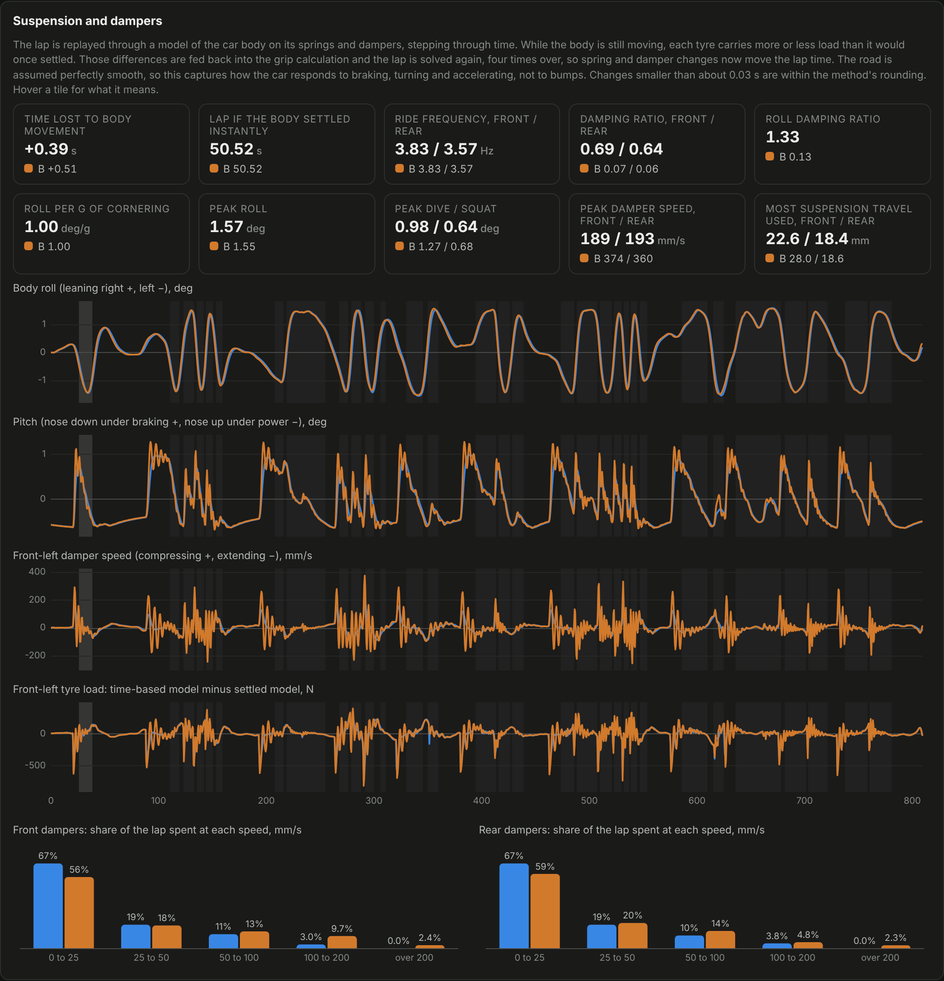
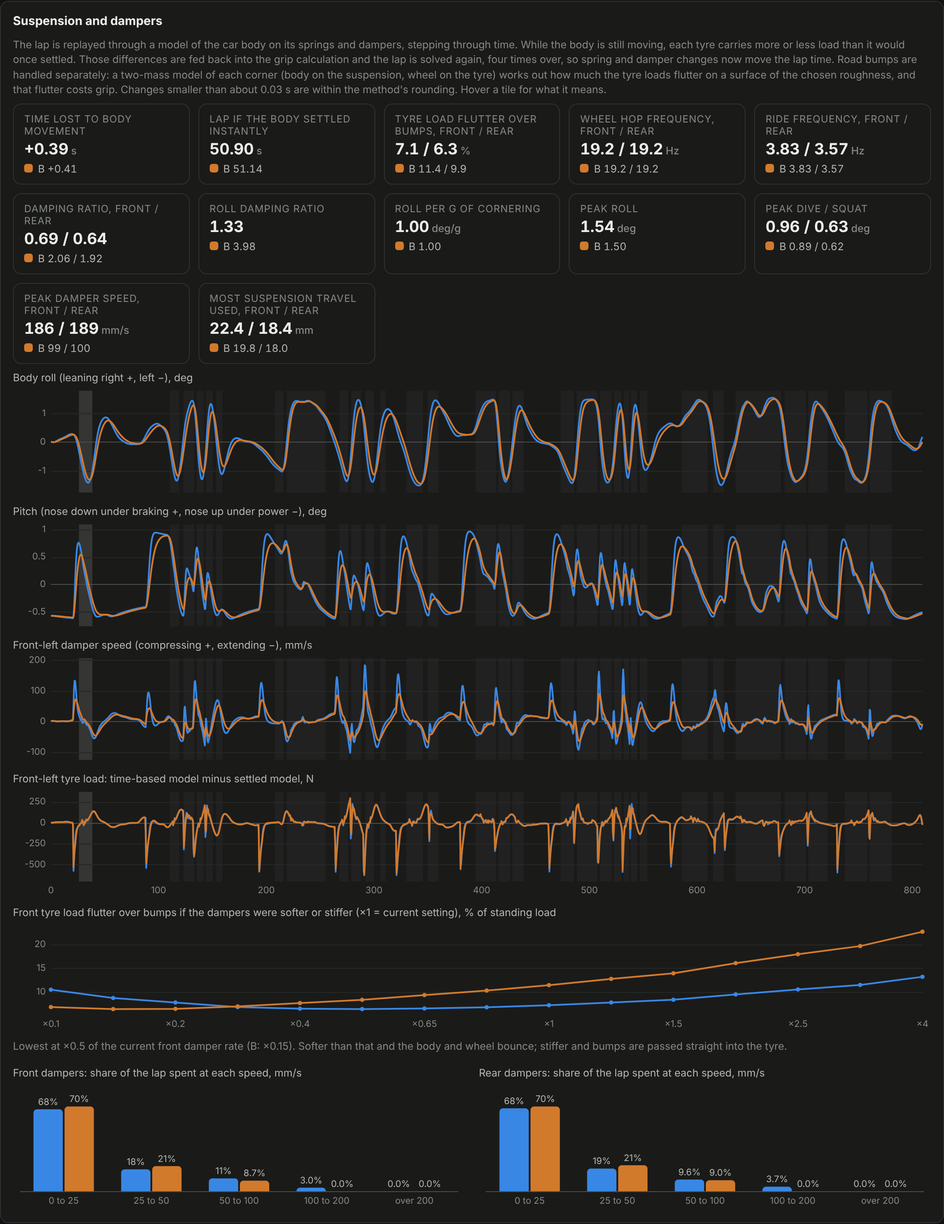
Add road bumps and tyre vertical stiffness
A quarter-car model per corner with the ISO 8608 road roughness scale gives
the tyre load flutter at each speed; an assumed share of that flutter is lost
as grip. Dampers now have a sweet spot in lap time. New inputs: tyre vertical
stiffness, grip lost to load flutter, track roughness. The suspension panel
shows load flutter, wheel hop frequency and the damper trade-off curve.

Claude-Session: https://claude.ai/code/session_014WARP8tuEjPQfDCv9Myx8Z

diff --git a/index.html b/index.html
@@ -77,9 +77,11 @@
 
     <div class="card" id="rideCard">
       <div class="card-head"><h2>Suspension and dampers</h2></div>
-      <p class="sub">The lap is replayed through a model of the car body on its springs and dampers, stepping through time. While the body is still moving, each tyre carries more or less load than it would once settled. Those differences are fed back into the grip calculation and the lap is solved again, four times over, so spring and damper changes now move the lap time. The road is assumed perfectly smooth, so this captures how the car responds to braking, turning and accelerating, not to bumps. Changes smaller than about 0.03 s are within the method's rounding. Hover a tile for what it means.</p>
+      <p class="sub">The lap is replayed through a model of the car body on its springs and dampers, stepping through time. While the body is still moving, each tyre carries more or less load than it would once settled. Those differences are fed back into the grip calculation and the lap is solved again, four times over, so spring and damper changes now move the lap time. Road bumps are handled separately: a two-mass model of each corner (body on the suspension, wheel on the tyre) works out how much the tyre loads flutter on a surface of the chosen roughness, and that flutter costs grip. Changes smaller than about 0.03 s are within the method's rounding. Hover a tile for what it means.</p>
       <div id="rideKpis" class="kpis"></div>
       <div id="rideCharts"></div>
+      <div class="chart"><div class="ct"><span>Front tyre load flutter over bumps if the dampers were softer or stiffer (×1 = current setting), % of standing load</span></div><canvas id="bumpChart"></canvas></div>
+      <p class="hint" id="bumpNote"></p>
       <div class="hist">
         <div><div class="ct"><span>Front dampers: share of the lap spent at each speed, mm/s</span></div><canvas id="histF"></canvas></div>
         <div><div class="ct"><span>Rear dampers: share of the lap spent at each speed, mm/s</span></div><canvas id="histR"></canvas></div>
@@ -105,7 +107,8 @@
         <ul>
           <li>The driver follows a fixed driving line. Driver accuracy sets the share of tyre grip the driver uses for cornering, braking and traction, the same share everywhere on the lap; at 100% the driver is perfect. It does not model mistakes, late throttle, lifting early on straights or lap to lap variation.</li>
           <li>Springs and dampers affect lap time through tyre load only: the lap is solved, replayed through time on its springs and dampers, and solved again with the tyre loads that replay gives, four times, with the load differences lightly smoothed over about 1 m of track. Lap time differences under about 0.03 s are within this method's rounding. All load transfer is assumed to pass through the springs and dampers, which overstates the delay compared with a real car, where part passes instantly through the suspension links.</li>
-          <li>In that replay the dampers are linear (same rate in bump and rebound), tyres are rigid vertically, the road is perfectly smooth (no bumps or kerbs), driver inputs build with a 0.08 s lag, and roll and pitch inertia use assumed radii of gyration of 0.30 m and 0.60 m.</li>
+          <li>Road bumps use a quarter-car model for each corner (sprung mass, suspension spring and damper, unsprung mass, tyre spring) and the ISO 8608 road roughness scale, giving the typical tyre load flutter at each speed. Grip lost is an assumed share of that flutter (0.3 by default); this figure is a placeholder until tyre test data is available. Roughness is the same everywhere, each corner is treated on its own, and the tyre is assumed never to leave the ground.</li>
+          <li>In that replay the dampers are linear (same rate in bump and rebound), the body replay itself runs on a smooth road with rigid tyres (bumps are added through the separate model above), kerbs are not modelled, driver inputs build with a 0.08 s lag, and roll and pitch inertia use assumed radii of gyration of 0.30 m and 0.60 m.</li>
           <li>Roll centres are taken at ground level and the whole car rolls as one mass.</li>
           <li>Tyres use a peak grip coefficient with a straight-line load sensitivity, not a full tyre model. No tyre temperature. Camber and toe are not modelled.</li>
           <li>Tyre wear is a straight-line grip loss up to 12% at fully worn.</li>
@@ -116,7 +119,7 @@
           <li>Endurance ignores the driver change stop, which is not timed.</li>
         </ul>
         <p><b>Tracks.</b> <span id="sources"></span></p>
-        <p><b>Checks against known numbers.</b> With the default car the simulator gives about 4.1 s for the 75 m acceleration and 5.0 s on skidpad. Competitive electric Formula Student cars run roughly 3.3 to 4.5 s and 4.7 to 5.3 s. A wingless car with constant grip matches the textbook skidpad formula to within 0.06 s. Fed back into lap time, body movement costs the default car about 0.4 s on the FS UK lap; halving or doubling the damper rates changes that by only a few hundredths, while a badly underdamped car loses about a further 0.1 s. The spring and damper replay settles at exactly the steady model's tyre loads and roll angle, and its overshoot after a sudden input matches the textbook formula for a spring, mass and damper to within 2%. Against a logged FS UK endurance stint the speed trace has the right shape (correlation 0.96), but the default car with a perfect driver is about 19% quicker than the logged laps, so absolute lap times should not be trusted until the car figures are replaced with a real car's.</p>
+        <p><b>Checks against known numbers.</b> With the default car the simulator gives about 4.1 s for the 75 m acceleration and 5.0 s on skidpad. Competitive electric Formula Student cars run roughly 3.3 to 4.5 s and 4.7 to 5.3 s. A wingless car with constant grip matches the textbook skidpad formula to within 0.06 s. Fed back into lap time, body movement costs the default car about 0.4 s on the FS UK lap; halving or doubling the damper rates changes that by only a few hundredths, while a badly underdamped car loses about a further 0.1 s. The spring and damper replay settles at exactly the steady model's tyre loads and roll angle, and its overshoot after a sudden input matches the textbook formula for a spring, mass and damper to within 2%. The bump model matches a step-by-step simulation of the same two masses over a sine-wave road to within 3%, and gives the expected best damper setting at a damping ratio of about 0.4. Against a logged FS UK endurance stint the speed trace has the right shape (correlation 0.96), but the default car with a perfect driver is about 19% quicker than the logged laps, so absolute lap times should not be trusted until the car figures are replaced with a real car's.</p>
       </div>
     </details>
     <footer class="foot">Physics in Python, running in your browser through Pyodide. GP racing lines: TUM racetrack database (LGPL-3.0).</footer>

diff --git a/web/app.js b/web/app.js
@@ -310,6 +310,8 @@ function drawRide() {
   const tiles = [
     ["Time lost to body movement", (q) => signed(q.time_cost, 2), "s", "Lap time with the time-based tyre loads fed back into grip, minus lap time if the body settled instantly. For endurance this is for one flying lap."],
     ["Lap if the body settled instantly", (q) => fmtTime(q.time_settled), "s", "The lap time from the settled model alone, with no spring and damper effects."],
+    ["Tyre load flutter over bumps, front / rear", (q) => `${fmt(q.flutter_f, 1)} / ${fmt(q.flutter_r, 1)}`, "%", "Typical variation in tyre load caused by the road surface, as a share of the standing load, at this lap's average speed. Less is better: a tyre with a steady load grips more."],
+    ["Wheel hop frequency, front / rear", (q) => `${fmt(q.hop_f, 1)} / ${fmt(q.hop_r, 1)}`, "Hz", "How fast a wheel bounces between the tyre and the suspension spring."],
     ["Ride frequency, front / rear", (q) => `${fmt(q.freq_f, 2)} / ${fmt(q.freq_r, 2)}`, "Hz", "How fast the body bounces on its springs. FS cars with wings usually sit between 3 and 4.5 Hz."],
     ["Damping ratio, front / rear", (q) => `${fmt(q.zeta_f, 2)} / ${fmt(q.zeta_r, 2)}`, "", "1.0 is the least damping that stops bouncing with no overshoot. 0.6 to 0.8 is a common target."],
     ["Roll damping ratio", (q) => fmt(q.zeta_roll, 2), "", "Below 1 the body overshoots its lean on turn-in, then settles."],
@@ -321,6 +323,13 @@ function drawRide() {
   ];
   $("rideKpis").innerHTML = tiles.map(([l, f, u, tip]) => `<div class="kpi small" title="${tip}"><div class="l">${l}</div><div class="v">${f(r)}<small>${u}</small></div>` +
     `<div class="d">${rb ? `<i class="sw b"></i>B ${f(rb)}` : ""}</div></div>`).join("");
+  const sw = r.sweep, bc = $("bumpChart");
+  drawLineChart(bc, { n: sw.mult.length, dots: true, xlabels: true, dx: 1, xfmt: (t) => "×" + sw.mult[t],
+    series: [{ data: sw.var_f, colour: COL.A }].concat(rb ? [{ data: rb.sweep.var_f, colour: COL.B }] : []) });
+  const best = (q) => q.sweep.mult[q.sweep.var_f.indexOf(Math.min(...q.sweep.var_f))];
+  $("bumpNote").textContent = r.flutter_f > 0
+    ? `Lowest at ×${best(r)} of the current front damper rate` + (rb ? ` (B: ×${best(rb)})` : "") + ". Softer than that and the body and wheel bounce; stiffer and bumps are passed straight into the tyre."
+    : "Track roughness is 0, so there is no load flutter to show.";
   const labels = r.bins.map((b, i) => `${i ? r.bins[i - 1] : 0} to ${b}`).concat([`over ${r.bins[r.bins.length - 1]}`]);
   for (const [id, key] of [["histF", "hist_f"], ["histR", "hist_r"]])
     drawBars($(id), labels, [{ data: r[key], colour: COL.A }].concat(rb ? [{ data: rb[key], colour: COL.B }] : []), "%");

diff --git a/web/worker.js b/web/worker.js
@@ -1,7 +1,7 @@
 // Runs the Python physics engine off the main thread so the page stays responsive.
 import { loadPyodide } from "../vendor/pyodide/pyodide.mjs";
 
-const FILES = ["__init__.py", "params.py", "vehicle.py", "ride.py", "solver.py", "api.py"];
+const FILES = ["__init__.py", "params.py", "bumps.py", "vehicle.py", "ride.py", "solver.py", "api.py"];
 let api = null;
 
 async function init() {

diff --git a/fslap/vehicle.py b/fslap/vehicle.py
@@ -6,6 +6,7 @@ acceleration. Fast transients (the car pitching and rolling on its springs
 and dampers as the driver turns in or hits a bump) are not simulated.
 """
 import math
+from .bumps import tyre_load_rms
 
 G = 9.81
 WEAR_GRIP_LOSS = 0.12      # grip lost at 100 % tyre wear (assumption)
@@ -66,6 +67,16 @@ class Vehicle:
         self.croll_r = self.c_r * self.tr ** 2 / 2
         self.k_roll = math.radians(self.kroll_f + self.kroll_r)      # N·m/deg, both axles
         self.rsd = self.kroll_f / (self.kroll_f + self.kroll_r)     # roll stiffness distribution, front share
+        # Road bumps: tyre load flutter grows with the square root of speed, so work
+        # it out once at 1 m/s for a front and a rear corner (see bumps.py).
+        self.kt = c["tyre_kv"] * 1000.0
+        self.gd0 = cond.get("roughness", 0) * 1e-6
+        self.ms_f = max(5.0, self.m * self.wf / 2 - self.m_unsprung)        # sprung mass on one front corner
+        self.ms_r = max(5.0, self.m * (1 - self.wf) / 2 - self.m_unsprung)
+        self.sig_f = tyre_load_rms(self.ms_f, self.m_unsprung, self.kw_f, self.c_f, self.kt, 1.0, self.gd0)
+        self.sig_r = tyre_load_rms(self.ms_r, self.m_unsprung, self.kw_r, self.c_r, self.kt, 1.0, self.gd0)
+        self.bump_f = c["bump_sens"] * self.sig_f     # grip-equivalent load lost per sqrt(m/s)
+        self.bump_r = c["bump_sens"] * self.sig_r
         self.p_cap = cond["power_cap"] * 1000.0
         self.track_grip = cond["track_grip"] / 100.0
         self.skill = min(1.0, max(0.3, cond.get("driver", 100) / 100.0))
@@ -122,7 +133,11 @@ class Vehicle:
         """Grip available on each axle: (Fy front, Fy rear, Fx front, Fx rear) in N."""
         fl, fr, rl, rr = self.wheel_loads(v, ax, ay, d)
         ls, fz0, g = self.ls, self.fz0, self.grip
-        e = [fz * max(0.4, 1.0 - ls * (fz / fz0 - 1.0)) * g for fz in (fl, fr, rl, rr)]
+        rv = math.sqrt(v)
+        lost = (self.bump_f * rv, self.bump_f * rv, self.bump_r * rv, self.bump_r * rv)
+        # grip coefficient from the average load, applied to the load left after bump flutter
+        e = [max(0.3 * fz, fz - b) * max(0.4, 1.0 - ls * (fz / fz0 - 1.0)) * g
+             for fz, b in zip((fl, fr, rl, rr), lost)]
         ef, er = e[0] + e[1], e[2] + e[3]
         return self.mu_y0 * ef, self.mu_y0 * er, self.mu_x0 * ef, self.mu_x0 * er
 
@@ -161,6 +176,14 @@ class Vehicle:
         if e2 < 0.4: e2 = 0.4
         if e3 < 0.4: e3 = 0.4
         if e4 < 0.4: e4 = 0.4
+        bf, br = self.bump_f, self.bump_r
+        if bf > 0.0 or br > 0.0:              # bumps: part of each tyre's load is lost to flutter
+            rv = math.sqrt(v)
+            bf *= rv; br *= rv
+            fl = fl - bf if fl - bf > 0.3 * fl else 0.3 * fl
+            fr = fr - bf if fr - bf > 0.3 * fr else 0.3 * fr
+            rl = rl - br if rl - br > 0.3 * rl else 0.3 * rl
+            rr = rr - br if rr - br > 0.3 * rr else 0.3 * rr
         ef = (fl * e1 + fr * e2) * self.grip_drv
         er = (rl * e3 + rr * e4) * self.grip_drv
         may = m * abs(ay)

diff --git a/tests/test_bumps.py b/tests/test_bumps.py
@@ -1,0 +1,65 @@
+"""Checks for the road bump (quarter-car) model."""
+import json, math, os, sys, unittest
+ROOT = os.path.dirname(os.path.dirname(os.path.abspath(__file__)))
+sys.path.insert(0, ROOT)
+from fslap import api
+from fslap.bumps import tyre_load_gain, tyre_load_rms
+
+api.load_tracks(open(os.path.join(ROOT, "data", "tracks.json")).read())
+MS, MU, K, C, KT = 60.0, 10.0, 35000.0, 2000.0, 110000.0
+
+
+def run(track, car=None, cond=None):
+    return json.loads(api.run(json.dumps(dict(track=track, car=car or {}, cond=cond or {}))))
+
+
+class Bumps(unittest.TestCase):
+    def test_slow_bumps_just_lift_the_whole_corner(self):
+        # Far below any resonance the corner moves as one lump, so the tyre load
+        # change is simply mass x acceleration = (ms + mu) * (2 pi f)^2 per metre.
+        f = 0.2
+        self.assertAlmostEqual(tyre_load_gain(MS, MU, K, C, KT, f) / ((MS + MU) * (2 * math.pi * f) ** 2), 1.0, delta=0.02)
+
+    def test_gain_matches_step_by_step_simulation(self):
+        # Independent check: drive the two-mass model over a sine-wave road in
+        # small time steps and measure the tyre load swing directly.
+        f, amp, h = 8.0, 0.001, 0.0002
+        zs = zu = vs = vu = 0.0
+        peak = 0.0
+        for i in range(int(4.0 / h)):
+            t = i * h
+            zr = amp * math.sin(2 * math.pi * f * t)
+            fs = K * (zs - zu) + C * (vs - vu)
+            ft = KT * (zr - zu)
+            vs += -fs / MS * h; vu += (fs + ft) / MU * h
+            zs += vs * h; zu += vu * h
+            if t > 3.0:
+                peak = max(peak, abs(ft))
+        self.assertAlmostEqual(peak / amp / tyre_load_gain(MS, MU, K, C, KT, f), 1.0, delta=0.03)
+
+    def test_flutter_grows_with_square_root_of_speed(self):
+        a = tyre_load_rms(MS, MU, K, C, KT, 10.0, 16e-6)
+        b = tyre_load_rms(MS, MU, K, C, KT, 40.0, 16e-6)
+        self.assertAlmostEqual(b / a, 2.0, delta=0.01)
+
+    def test_there_is_a_best_damper_setting(self):
+        soft, mid, stiff = (tyre_load_rms(MS, MU, K, c, KT, 15.0, 16e-6) for c in (200, 1100, 8000))
+        self.assertLess(mid, soft)
+        self.assertLess(mid, stiff)
+
+    def test_rougher_track_is_slower_and_smooth_track_costs_nothing(self):
+        smooth = run("fsuk_autocross", cond={"roughness": 0})["time"]
+        mid = run("fsuk_autocross", cond={"roughness": 16})["time"]
+        rough = run("fsuk_autocross", cond={"roughness": 64})["time"]
+        self.assertTrue(smooth < mid < rough)
+        no_sens = run("fsuk_autocross", {"bump_sens": 0}, {"roughness": 64})["time"]
+        self.assertAlmostEqual(no_sens, smooth, delta=0.001)
+
+    def test_dampers_now_have_a_sweet_spot_in_lap_time(self):
+        t = {c: run("fsuk_autocross", {"damper_f": c, "damper_r": c}, {"roughness": 16})["time"] for c in (200, 1200, 8000)}
+        self.assertLess(t[1200], t[200] - 0.2)
+        self.assertLess(t[1200], t[8000] - 0.2)
+
+
+if __name__ == "__main__":
+    unittest.main()

diff --git a/fslap/params.py b/fslap/params.py
@@ -27,6 +27,8 @@ CAR_GROUPS = [
         P("tyre_ref_load", "Reference tyre load", "N", 750, 300, 1500, 10, "The tyre load at which the grip coefficients above apply. Roughly one corner's share of the car's weight."),
         P("load_sens", "Load sensitivity", "-", 0.15, 0, 0.4, 0.01, "How much grip coefficient is lost when tyre load doubles from the reference load. 0.15 means 15% less. This is why load transfer costs grip: the loaded tyre gains less than the unloaded tyre loses."),
         P("tyre_radius", "Tyre rolling radius", "m", 0.203, 0.18, 0.28, 0.001, "Radius of the loaded tyre. 0.203 m suits a 16 inch diameter tyre on a 10 inch wheel."),
+        P("tyre_kv", "Tyre vertical stiffness", "N/mm", 110, 40, 300, 5, "How stiff the tyre is as a spring when squashed vertically. It sets how the wheel bounces over bumps. It depends mainly on tyre pressure."),
+        P("bump_sens", "Grip lost to load flutter", "-", 0.3, 0, 1, 0.05, "When a tyre's load flutters over bumps it loses grip, because a tyre sheds force at once when load drops but needs time to build it back. This is the share of the load flutter that is lost as grip: 0.3 means a tyre whose load varies by 10% loses 3% of its grip. It is an assumed figure; real values come from tyre testing."),
         P("rolling_res", "Rolling resistance coefficient", "-", 0.02, 0.005, 0.05, 0.001, "Drag from the tyres deforming as they roll, as a fraction of the car's weight."),
     ]),
     ("Aerodynamics", [
@@ -69,6 +71,7 @@ COND_GROUP = ("Conditions", [
     P("power_cap", "Power limit", "kW", 80, 5, 80, 1, "Electrical power limit at the battery. The rules cap this at 80 kW. Teams turn it down in endurance to make the battery last."),
     P("tyre_wear", "Tyre wear at start", "%", 0, 0, 100, 1, "0 = new tyres, 100 = fully worn. Assumed to cut grip in a straight line down to 12% less at fully worn."),
     P("wear_rate", "Tyre wear rate", "%/km", 0.5, 0, 5, 0.1, "How quickly the tyres wear during endurance."),
+    P("roughness", "Track roughness", "10⁻⁶ m³", 4, 0, 256, 1, "How bumpy the surface is, on the ISO 8608 road scale. 0 = perfectly smooth, 4 = race circuit, 16 = good tarmac (car park or airfield in good condition), 64 = average public road, 256 = poor road."),
     P("track_grip", "Track grip", "%", 100, 40, 110, 1, "Scales all tyre grip. 100 = warm, dry tarmac. Roughly 80 = damp, 60 = wet."),
     P("air_temp", "Air temperature", "°C", 20, -5, 45, 1, "Warmer air is thinner, which reduces both downforce and drag."),
 ])

diff --git a/fslap/bumps.py b/fslap/bumps.py
@@ -1,0 +1,56 @@
+"""Road bumps: how much the load on a tyre flutters on a rough surface.
+
+Uses the classic "quarter-car" model: one corner of the car as two masses
+stacked on springs.
+
+        sprung mass     (that corner's share of the body)
+        spring + damper (the suspension)
+        unsprung mass   (wheel, tyre, upright, brake)
+        tyre spring     (the tyre squashing vertically)
+        road            (moves up and down as the car drives over it)
+
+For a road that moves up and down at a given frequency, the model gives how
+much the tyre's load changes per metre of road movement (the "gain"). A real
+road is a mix of all frequencies; ISO 8608 describes that mix with one
+roughness number. Adding up the gain over all frequencies, weighted by that
+mix, gives the typical (RMS) tyre load variation.
+
+Assumptions
+- Each corner is treated on its own (no anti-roll bar or body roll effect on bumps).
+- Linear spring, damper and tyre; the tyre never leaves the ground.
+- Roughness is the same everywhere on the track and for all four wheels.
+- Road spectrum follows ISO 8608 (roughness falls with the square of spatial
+  frequency), counted from 0.3 to 60 Hz.
+"""
+import cmath, math
+
+N0 = 0.1                                   # reference spatial frequency, cycles per metre (ISO 8608)
+_FREQS = [0.3 * (60 / 0.3) ** (i / 159.0) for i in range(160)]
+
+
+def tyre_load_gain(ms, mu, k, c, kt, f):
+    """Tyre load change per metre of road movement at frequency f (N/m)."""
+    s = 2j * math.pi * f
+    d = k + c * s                                           # suspension spring + damper
+    zu = kt / (mu * s * s + kt + d * ms * s * s / (ms * s * s + d))   # wheel movement per road movement
+    return abs(kt * (1 - zu))
+
+
+def tyre_load_rms(ms, mu, k, c, kt, v, gd0):
+    """Typical tyre load variation (N, RMS) at speed v (m/s) on a road of ISO
+    roughness gd0 (m³ at 0.1 cycles/m)."""
+    if gd0 <= 0 or v <= 0:
+        return 0.0
+    total = 0.0
+    prev_f = prev_y = None
+    for f in _FREQS:
+        y = tyre_load_gain(ms, mu, k, c, kt, f) ** 2 * gd0 * N0 * N0 * v / (f * f)   # gain² x road spectrum
+        if prev_f is not None:
+            total += 0.5 * (y + prev_y) * (f - prev_f)
+        prev_f, prev_y = f, y
+    return math.sqrt(total)
+
+
+def hop_frequency(mu, k, kt):
+    """Frequency at which the wheel bounces between tyre and suspension springs (Hz)."""
+    return math.sqrt((k + kt) / mu) / (2 * math.pi)

diff --git a/fslap/ride.py b/fslap/ride.py
@@ -25,6 +25,7 @@ Assumptions
 - Roll and pitch inertia come from assumed radii of gyration (KX, KY).
 """
 import math
+from .bumps import tyre_load_rms, hop_frequency
 
 G = 9.81
 KX, KY = 0.30, 0.60        # m, radii of gyration of the sprung mass in roll and pitch
@@ -43,6 +44,29 @@ def ride_metrics(veh):
     out["freq_roll"] = math.sqrt(veh.kroll_f + veh.kroll_r) / math.sqrt(ixx) / (2 * math.pi)
     out["zeta_roll"] = (veh.croll_f + veh.croll_r) / (2 * math.sqrt((veh.kroll_f + veh.kroll_r) * ixx))
     out["roll_gradient"] = math.degrees(veh.m * G * veh.h / (veh.kroll_f + veh.kroll_r))   # deg per g
+    return out
+
+
+SWEEP = [0.1, 0.15, 0.2, 0.3, 0.4, 0.5, 0.65, 0.8, 1.0, 1.25, 1.5, 2.0, 2.5, 3.0, 4.0]
+
+
+def bump_metrics(veh, v_mean):
+    """Tyre load flutter over bumps at the lap's average speed, plus how it
+    would change with softer or stiffer dampers (the classic damper trade-off)."""
+    mu, kt, gd0 = veh.m_unsprung, veh.kt, veh.gd0
+    static_f, static_r = veh.m * G * veh.wf / 2, veh.m * G * (1 - veh.wf) / 2
+    rv = math.sqrt(max(v_mean, 0.1))
+    out = dict(
+        hop_f=hop_frequency(mu, veh.kw_f, kt), hop_r=hop_frequency(mu, veh.kw_r, kt),
+        flutter_f=100 * veh.sig_f * rv / static_f, flutter_r=100 * veh.sig_r * rv / static_r,
+        v_mean=v_mean,
+    )
+    zeta, var_f, var_r = [], [], []
+    for mult in SWEEP:
+        zeta.append(round(mult * veh.c_f / (2 * math.sqrt(veh.kw_f * veh.ms_f)), 3))
+        var_f.append(round(100 * tyre_load_rms(veh.ms_f, mu, veh.kw_f, mult * veh.c_f, kt, v_mean, gd0) / static_f, 2))
+        var_r.append(round(100 * tyre_load_rms(veh.ms_r, mu, veh.kw_r, mult * veh.c_r, kt, v_mean, gd0) / static_r, 2))
+    out["sweep"] = dict(mult=SWEEP, zeta=zeta, var_f=var_f, var_r=var_r)
     return out
 
 

diff --git a/fslap/solver.py b/fslap/solver.py
@@ -12,7 +12,7 @@ Method (the standard quasi-steady-state lap time recipe):
 """
 import math
 from .vehicle import Vehicle, G, SOC_MIN
-from .ride import ride_replay
+from .ride import ride_replay, bump_metrics
 
 
 def _corner_limits(veh, ks, offs=None, base=None):
@@ -283,6 +283,8 @@ def simulate(car, cond, track):
     ride_ch, ride = ride_replay(veh, ch["t"], ch["v"], ch["ax"], ch["ay"])
     for q, w in enumerate(WHEELS):          # time-based load minus settled load, for display
         ride_ch["dfz_" + w] = [round(ride_ch["fzd_" + w][j] - _settled_loads(veh, ch, j)[q]) for j in range(len(ch["v"]))]
+    bm = bump_metrics(veh, sum(ch["v"]) / len(ch["v"]))
+    ride.update({k: (round(x, 3) if isinstance(x, float) else x) for k, x in bm.items()})
     ride["time_settled"] = round(fb_times[0], 3)
     ride["time_dynamic"] = round(fb_times[-1], 3)
     ride["time_cost"] = round(fb_times[-1] - fb_times[0], 3)

diff --git a/tests/test_benchmarks.py b/tests/test_benchmarks.py
@@ -75,6 +75,14 @@ class Driver(unittest.TestCase):
         self.assertAlmostEqual(run("silverstone_gp", cond={"driver": 85})["v_max"], run("silverstone_gp")["v_max"], delta=0.1)
 
 
+class Packaging(unittest.TestCase):
+    def test_web_page_loads_every_engine_file(self):
+        import re
+        listed = set(re.findall(r'"(\w+\.py)"', open(os.path.join(ROOT, "web", "worker.js")).read()))
+        present = {f for f in os.listdir(os.path.join(ROOT, "fslap")) if f.endswith(".py")}
+        self.assertEqual(listed, present)
+
+
 class FastPath(unittest.TestCase):
     def test_fast_grip_routine_matches_reference(self):
         # _fx_left is a hand-inlined copy of wheel_loads + _axle_caps; keep them in step.

diff --git a/README.md b/README.md
@@ -10,7 +10,7 @@ An interactive lap time simulator for **electric Formula Student cars**. Enter t
 
 - **Events:** 75 m acceleration, skidpad, an FS UK sprint lap, the 22 km FS UK endurance (with battery energy tracked lap by lap), and flying laps of the Silverstone and Hockenheim Grand Prix circuits.
 - **Car inputs:** mass, wheelbase, track widths, centre of gravity, tyre grip and load sensitivity, downforce and drag, motor torque/power/speed, gear ratio, driven wheels, battery capacity/voltage/resistance/current limit, regen, brake bias, spring rates, anti-roll bars and damper rates. The defaults are a typical mid-field electric FS car, not a specific team's car.
-- **Conditions:** driver accuracy, battery charge, power limit, tyre wear, track grip (dry to wet) and air temperature.
+- **Conditions:** driver accuracy, track roughness, battery charge, power limit, tyre wear, track grip (dry to wet) and air temperature.
 - **Per-corner view:** click a corner on the map for entry, minimum and exit speed, cornering and braking g, tyre loads, grip used on each axle, body roll, motor torque and battery power, for setup A and B.
 
 ## How it works
@@ -28,6 +28,7 @@ The lowest of those speeds at each point is the fastest possible lap for a perfe
 | `fslap/params.py` | Every input, its unit, default and explanation |
 | `fslap/vehicle.py` | Car model: tyres, aero, load transfer, motor, battery, brakes |
 | `fslap/ride.py` | Time-based spring and damper replay: roll, pitch, heave, damper speeds |
+| `fslap/bumps.py` | Road bumps: quarter-car model and ISO 8608 road roughness |
 | `fslap/solver.py` | The lap solver, energy accounting and corner detection |
 | `tools/build_tracks.py` | Builds `data/tracks.json` from rulebook dimensions, open racing lines and GPS |
 | `web/` and `index.html` | The page: track map, charts and tables |
@@ -35,18 +36,20 @@ The lowest of those speeds at each point is the fastest possible lap for a perfe
 
 ## Assumptions
 
-Fixed driving line. Driver accuracy is the share of tyre grip the driver uses (100% = perfect), applied evenly round the lap; mistakes and early lifting are not modelled. Flat track. Springs and dampers act on lap time through tyre load: the lap is solved, replayed through time on its springs and dampers (`fslap/ride.py`), and solved again with the tyre loads from that replay, four times over. Differences under about 0.03 s are within this method's rounding. All load transfer is assumed to pass through springs and dampers. In that replay dampers are linear, tyres are rigid vertically, the road is smooth, inputs build with a 0.08 s lag, and roll and pitch inertia use assumed radii of gyration (0.30 m and 0.60 m). Roll centres at ground level. Tyres are a peak grip coefficient with linear load sensitivity and a friction ellipse for combined cornering and braking; no tyre temperature, camber or toe. Tyre wear is a linear grip loss up to 12% when fully worn. All-wheel drive splits torque in proportion to axle grip. Regen keeps the set brake balance and is off below 5 km/h. Battery limits are held constant within a lap and updated between laps. The endurance driver change is not timed.
+Fixed driving line. Driver accuracy is the share of tyre grip the driver uses (100% = perfect), applied evenly round the lap; mistakes and early lifting are not modelled. Flat track. Springs and dampers act on lap time through tyre load: the lap is solved, replayed through time on its springs and dampers (`fslap/ride.py`), and solved again with the tyre loads from that replay, four times over. Differences under about 0.03 s are within this method's rounding. All load transfer is assumed to pass through springs and dampers. Road bumps use a quarter-car model per corner and the ISO 8608 roughness scale to get tyre load flutter; the grip lost is an assumed share of that flutter (0.3 by default) pending tyre test data. In the body replay dampers are linear, kerbs are not modelled, inputs build with a 0.08 s lag, and roll and pitch inertia use assumed radii of gyration (0.30 m and 0.60 m). Roll centres at ground level. Tyres are a peak grip coefficient with linear load sensitivity and a friction ellipse for combined cornering and braking; no tyre temperature, camber or toe. Tyre wear is a linear grip loss up to 12% when fully worn. All-wheel drive splits torque in proportion to axle grip. Regen keeps the set brake balance and is off below 5 km/h. Battery limits are held constant within a lap and updated between laps. The endurance driver change is not timed.
 
 ## Validation so far
 
 | Check | Simulator (default car) | Reference |
 | --- | --- | --- |
-| 75 m acceleration | 4.08 s | about 3.3 s (best AWD) to 4.5 s for competitive electric FS cars |
-| Skidpad | 4.97 s | about 4.7 to 5.3 s |
+| 75 m acceleration | 4.10 s | about 3.3 s (best AWD) to 4.5 s for competitive electric FS cars |
+| Skidpad | 5.01 s | about 4.7 to 5.3 s |
 | Skidpad, no wings, constant grip | within 0.06 s | textbook v = sqrt(mu g R) |
 | Spring and damper replay, settled values | identical tyre loads and roll angle | the steady model |
 | Spring and damper replay, overshoot after a sudden input | within 2% | textbook exp(-pi z / sqrt(1 - z^2)) |
 | Damper feedback into lap time | settles within 0.06 s between rounds; steady skidpad unchanged by dampers; a badly underdamped car is slower | expected behaviour |
+| Bump model gain | within 3% of a step-by-step simulation; exact mass x acceleration limit at low frequency | independent time-stepping, hand calculation |
+| Best damper setting over bumps | damping ratio about 0.4 | textbook road-holding optimum of roughly 0.3 to 0.5 |
 | FS UK endurance lap against a logged stint | speed trace correlation 0.96, lap about 19% quicker | logged GPS laps |
 
 The last row matters: the shape of the lap is right, but a generic car with a perfect driver is quicker than a real driver in a real car. Absolute lap times should not be quoted as accurate until the inputs are a real car's figures.
